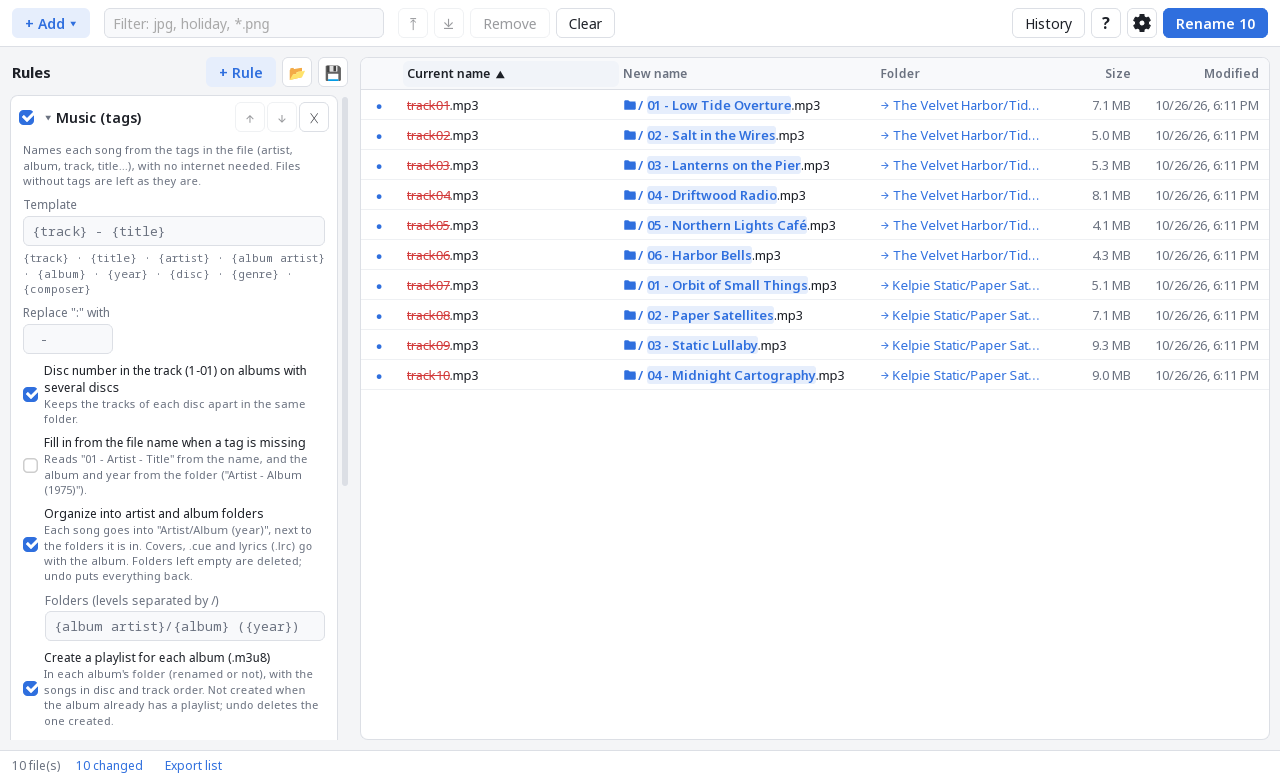
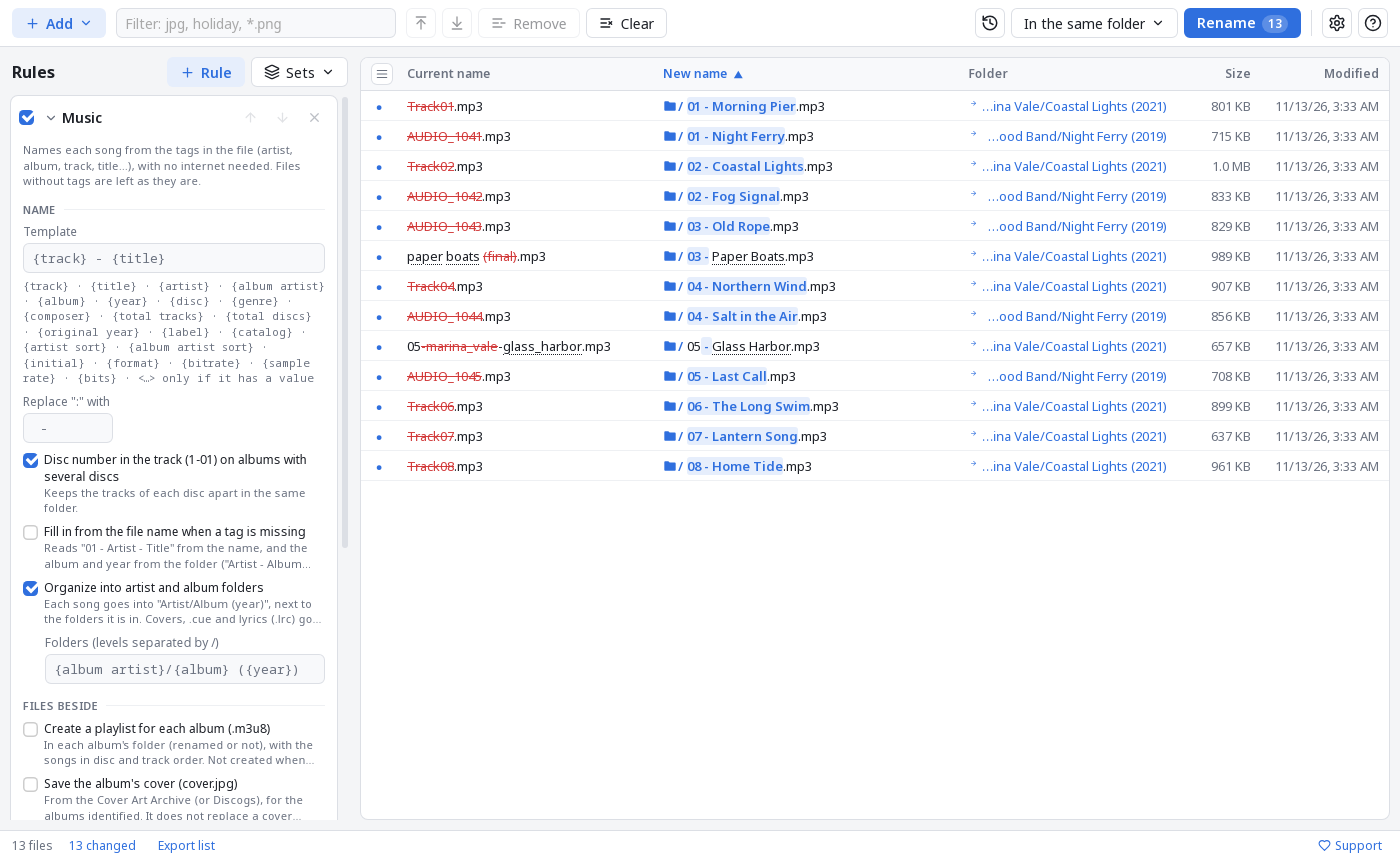
README: screenshots redone for the current interface, four new ones
Redone with made-up names and data (fake TMDB and OpenSubtitles): text
rules, movie choice with posters, music into artist/album folders,
comics (dark theme), photos, manual and About. New: a TV show with its
missing episodes, the subtitle review, comics into e-books with the
reader list, and the + Rule menu.

diff --git a/README.md b/README.md
@@ -173,10 +173,14 @@ A built-in manual (F1) explains every rule with examples.
 
 | | |
 |---|---|
-| ![Choosing between two movies with the same title, with posters](docs/screenshots/movies.png) | ![Songs named and sorted into artist and album folders from their tags](docs/screenshots/music.png) |
-| Movies: when two have the same title, you choose | Music: named and sorted into `Artist/Album (Year)` from the tags |
-| ![Messy comic file names turned into series and number, in series folders, dark theme](docs/screenshots/comics.png) | ![Photos from two folders, numbered per folder with the folder name](docs/screenshots/photos.png) |
-| Comics: series, number and series folders, offline (dark theme) | Photos numbered per folder, with the folder name |
+| ![A TV show's episodes named from TMDB into show and season folders, with the missing episodes as faded rows](docs/screenshots/tv-missing.png) | ![Choosing between movies with the same title, with posters](docs/screenshots/movies.png) |
+| TV shows: episodes named and sorted into `Show (Year)/Season 01`, missing ones shown | Movies: when several have the same title, you choose |
+| ![Subtitles found per language for a movie, the best of each already chosen](docs/screenshots/subtitles.png) | ![Songs named and sorted into artist and album folders from their tags](docs/screenshots/music.png) |
+| Subtitles: the best per language, from OpenSubtitles, SubDL and SubSource | Music: named and sorted into `Artist/Album (Year)` from the tags |
+| ![Messy comic file names turned into series and number, in series folders, dark theme](docs/screenshots/comics.png) | ![Comics made into Kindle books, with the reader chosen from a list of models](docs/screenshots/comic-ebook.png) |
+| Comics: series, number and series folders, offline (dark theme) | Comics into e-books, fit to the screen of 127 readers |
+| ![Photos from two folders, numbered per folder with the folder name](docs/screenshots/photos.png) | ![The + Rule menu, rules by kind of file and rules for the name's text](docs/screenshots/rules-menu.png) |
+| Photos numbered per folder, with the folder name | Rules by kind of file, and for the name's text |
 | ![Built-in manual](docs/screenshots/help.png) | ![About, with the data sources](docs/screenshots/about.png) |
 | Built-in manual, in English, Portuguese and Spanish | About, with the data sources |
 
